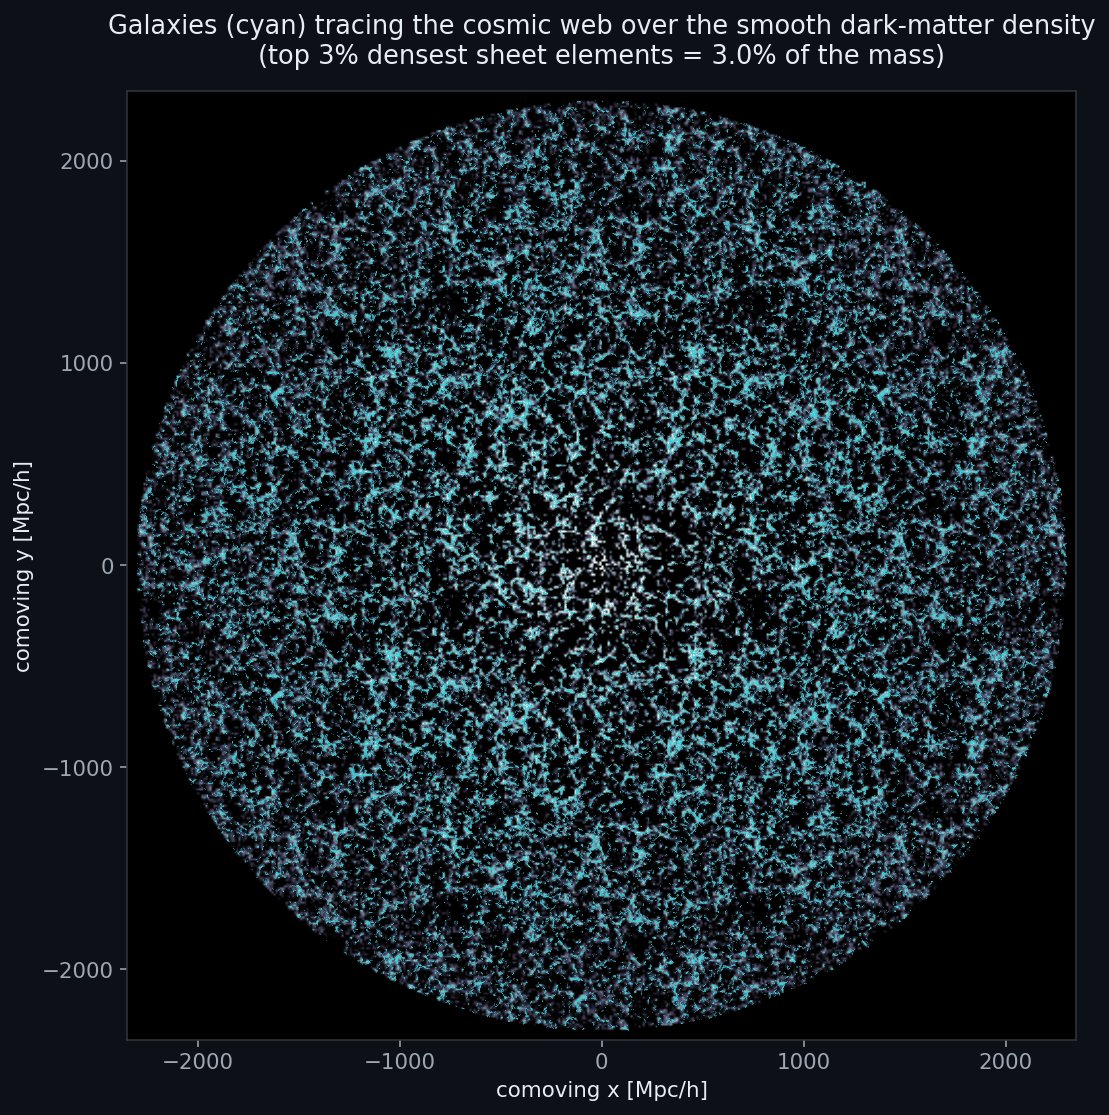
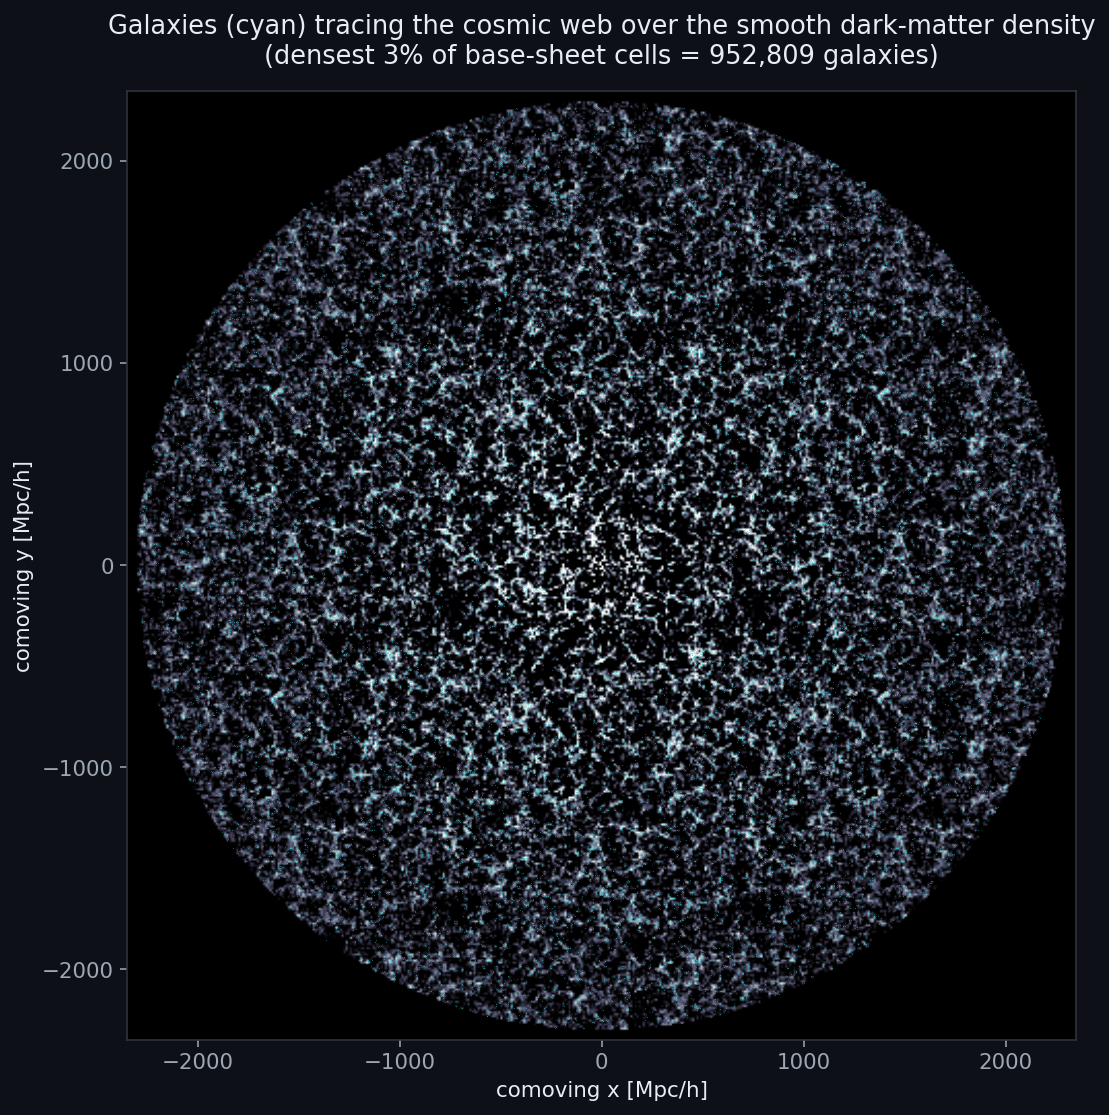
Fix galaxy checker pattern: select galaxies one-per-cell from the base sheet
The collapse / stream-density field is band-limited to the base Lagrangian grid,
so every n_resample sub-particle inside a collapsed cell passed the top-% cut —
filling cell interiors and leaving edges empty (a checker pattern). Select
galaxies only from the base sheet (one tracer per Lagrangian cell, identified via
LagrangianParticleIndex < N_part) and take the densest GAL_PERCENT% of those.
The oversampled tracers still build the smooth density; only the galaxy
*selection* is one-per-cell, giving a clean ~0.95 M point galaxy field that
clusters in the knots/filaments with no cell artifacts. Gallery run now passes
keep_particle_idx=True; captions updated.

diff --git a/docs/lightcone_gallery.html b/docs/lightcone_gallery.html
@@ -73,7 +73,7 @@
     <div class="wide">
       <figure class="card">
         <img src="figures/galaxies_web.png" alt="Galaxies from the phase-space sheet" loading="lazy"/>
-        <figcaption><h3>Galaxies from the phase-space sheet</h3><p>Galaxies are the densest sheet elements — the top 3% by stream density 1/|det&nbsp;T| (the collapsed knots and filaments). They cluster strongly, biased relative to the smooth mass: a mock galaxy field straight from the sheet's local density.</p></figcaption>
+        <figcaption><h3>Galaxies from the phase-space sheet</h3><p>Galaxies are the densest 3% of <em>base-sheet</em> cells (one tracer per Lagrangian cell, ranked by stream density 1/|det&nbsp;T| = collapsed knots/filaments). One galaxy per collapsed cell gives a clean point field that clusters strongly, biased relative to the smooth mass — a mock galaxy catalogue straight from the sheet topology.</p></figcaption>
       </figure></div>
     
       <figure class="card">

diff --git a/docs/make_lightcone_gallery.py b/docs/make_lightcone_gallery.py
@@ -80,6 +80,7 @@ def generate_lightcone(path):
         path, a_far=A_FAR, a_near=A_NEAR, n_shells=N_SHELLS, observer=observer,
         n_part_chunks=4, n_newton_iters=1, v_mode="radial",
         n_resample=N_RESAMPLE, deformation_mode="stream",
+        keep_particle_idx=True,   # to pick galaxies from the *base* sheet only
         map_spec=spec, verbose=True)
     print(f"  -> {summary['n_particles']:,} crossings, "
           f"{summary['n_replicas']} replicas", flush=True)
@@ -131,41 +132,55 @@ def fig_convergence(dj, spec, density_shells, out):
     _save_mollview(out)
 
 
-def _stream_density_threshold(path, percent, stride_rows=37):
-    """Top-`percent` stream-density cut, estimated from a strided subsample."""
+def _galaxy_setup(path, percent):
+    """Determine the base-sheet particle count and the stream-density cut for
+    galaxies, estimated from the *base sheet only* (one particle per Lagrangian
+    cell). Galaxies are 1-per-collapsed-cell tracers, not the oversampled
+    sub-particles — otherwise every sub-particle in a collapsed cell is selected
+    and the cells fill in as a checker pattern."""
     import h5py
     with h5py.File(path, "r") as f:
+        hdr = f["Header"].attrs
+        n_res = int(hdr.get("NumResample", 1))
+        n_part = int(hdr["NumPart_PerReplica"]) // (n_res ** 3)
         g = f["PartType1"]
-        if "StreamDensity" not in g:
-            return None
-        sd = np.asarray(g["StreamDensity"][::stride_rows], dtype=np.float64)
-    return float(np.percentile(sd, 100.0 - percent))
+        if "StreamDensity" not in g or "LagrangianParticleIndex" not in g:
+            return n_part, None
+        lpid = np.asarray(g["LagrangianParticleIndex"][::29])
+        sd = np.asarray(g["StreamDensity"][::29], dtype=np.float64)
+        base = lpid < n_part
+        if not base.any():
+            return n_part, None
+        thresh = float(np.percentile(sd[base], 100.0 - percent))
+    return n_part, thresh
 
 
 def read_catalogue(path, observer, dj, dec_halfwidth=2.0, n_3d=40000):
     """Stream the catalogue once, gathering: the thin-Dec wedge slice (all mass
     + galaxies), the n(z) histograms, a 3-D subsample, and a galaxy HEALPix
-    count map. Galaxies are the densest phase-space-sheet elements — the top
-    GAL_PERCENT % by stream density 1/|det T| (collapsed knots/filaments).
-    Returns a dict of arrays."""
+    count map. Galaxies are the densest *base-sheet* elements (one per
+    Lagrangian cell, top GAL_PERCENT % by stream density 1/|det T|) so they form
+    a clean point distribution tracing the collapsed knots/filaments rather than
+    filling whole cells. Returns a dict of arrays."""
     import h5py
     from discodj.core.healpix import ang2pix_ring, nside2npix
     obs = np.asarray(observer)
     a_obs_of_z = lambda z: 1.0 / (1.0 + z)
-    gal_thresh = _stream_density_threshold(path, GAL_PERCENT)
+    n_part_base, gal_thresh = _galaxy_setup(path, GAL_PERCENT)
 
     wedge = {k: [] for k in ("ra", "chi_real", "chi_rsd")}
     gwedge = {k: [] for k in ("ra", "chi_real")}     # galaxies in the slice
     z_real_all, z_rsd_all, zg_all = [], [], []
     sub = {k: [] for k in ("x", "y", "z", "redshift")}
     gal_map = np.zeros(nside2npix(NSIDE_GAL), dtype=np.float64)
-    n_tot = n_gal = 0
+    n_tot = n_gal = n_base = 0
     batch = 1 << 22
     with h5py.File(path, "r") as f:
         g = f["PartType1"]
         M = g["Coordinates"].shape[0]
         stride = max(M // n_3d, 1)
-        has_sd = "StreamDensity" in g and gal_thresh is not None
+        has_sd = ("StreamDensity" in g and "LagrangianParticleIndex" in g
+                  and gal_thresh is not None)
         for s in range(0, M, batch):
             e = min(s + batch, M)
             x = np.asarray(g["Coordinates"][s:e], dtype=np.float64)
@@ -182,10 +197,15 @@ def read_catalogue(path, observer, dj, dec_halfwidth=2.0, n_3d=40000):
             z_real_all.append(z_cosmo)
             z_rsd_all.append(z_obs)
             n_tot += e - s
-            # galaxies = densest sheet elements (top GAL_PERCENT % stream density)
+            # galaxies = densest *base-sheet* elements (1 per Lagrangian cell):
+            # restrict to the base sheet (lpid < n_part_base) then take the top
+            # GAL_PERCENT % by stream density -> clean point tracers, no cell fill.
             if has_sd:
                 sd = np.asarray(g["StreamDensity"][s:e], dtype=np.float64)
-                is_gal = sd > gal_thresh
+                lpid = np.asarray(g["LagrangianParticleIndex"][s:e])
+                base_mask = lpid < n_part_base
+                n_base += int(base_mask.sum())
+                is_gal = base_mask & (sd > gal_thresh)
             else:
                 is_gal = np.zeros(e - s, dtype=bool)
             n_gal += int(is_gal.sum())
@@ -219,7 +239,8 @@ def read_catalogue(path, observer, dj, dec_halfwidth=2.0, n_3d=40000):
     cat["z_rsd"] = np.concatenate(z_rsd_all)
     cat["z_gal"] = np.concatenate(zg_all) if zg_all else np.zeros(0)
     cat["gal_map"] = gal_map
-    cat["gal_frac"] = n_gal / max(n_tot, 1)
+    cat["gal_frac"] = n_gal / max(n_base, 1)   # fraction of base-sheet cells
+    cat["n_gal"] = n_gal
     return cat
 
 
@@ -296,8 +317,8 @@ def fig_galaxy_sky(cat, out):
     gmap = hp.smoothing(cat["gal_map"], fwhm=np.radians(1.0))
     plt.close("all")
     hp.mollview(gmap, cmap="cividis", cbar=True, norm="hist",
-                title=f"Galaxy angular density (top {GAL_PERCENT:g}% densest "
-                      f"sheet elements)",
+                title=f"Galaxy angular density (densest {GAL_PERCENT:g}% of "
+                      f"base-sheet cells)",
                 unit="galaxies / pixel (smoothed)", bgcolor="#0d1117")
     hp.graticule(color="#30363d", dpar=30, dmer=30)
     _save_mollview(out)
@@ -329,8 +350,8 @@ def fig_galaxies_web(cat, out):
     ax.set_xlabel("comoving x [Mpc/h]"); ax.set_ylabel("comoving y [Mpc/h]")
     ax.set_title("Galaxies (cyan) tracing the cosmic web over the smooth "
                  "dark-matter density\n"
-                 f"(top {GAL_PERCENT:g}% densest sheet elements = "
-                 f"{cat['gal_frac']*100:.1f}% of the mass)", pad=14)
+                 f"(densest {GAL_PERCENT:g}% of base-sheet cells = "
+                 f"{cat['n_gal']:,} galaxies)", pad=14)
     plt.savefig(out, dpi=140, bbox_inches="tight")
     plt.close("all")
     print(f"  wrote {out}", flush=True)
@@ -531,10 +552,11 @@ def main():
          "aliasing.",
          p_web),
         ("Galaxies from the phase-space sheet",
-         f"Galaxies are the densest sheet elements — the top {GAL_PERCENT:g}% by "
-         "stream density 1/|det&nbsp;T| (the collapsed knots and filaments). They "
-         "cluster strongly, biased relative to the smooth mass: a mock galaxy "
-         "field straight from the sheet's local density.",
+         f"Galaxies are the densest {GAL_PERCENT:g}% of <em>base-sheet</em> cells "
+         "(one tracer per Lagrangian cell, ranked by stream density 1/|det&nbsp;T| "
+         "= collapsed knots/filaments). One galaxy per collapsed cell gives a "
+         "clean point field that clusters strongly, biased relative to the smooth "
+         "mass — a mock galaxy catalogue straight from the sheet topology.",
          p_gweb),
         ("Galaxy angular clustering",
          "The same sheet-selected galaxies on the sky — the angular galaxy "
